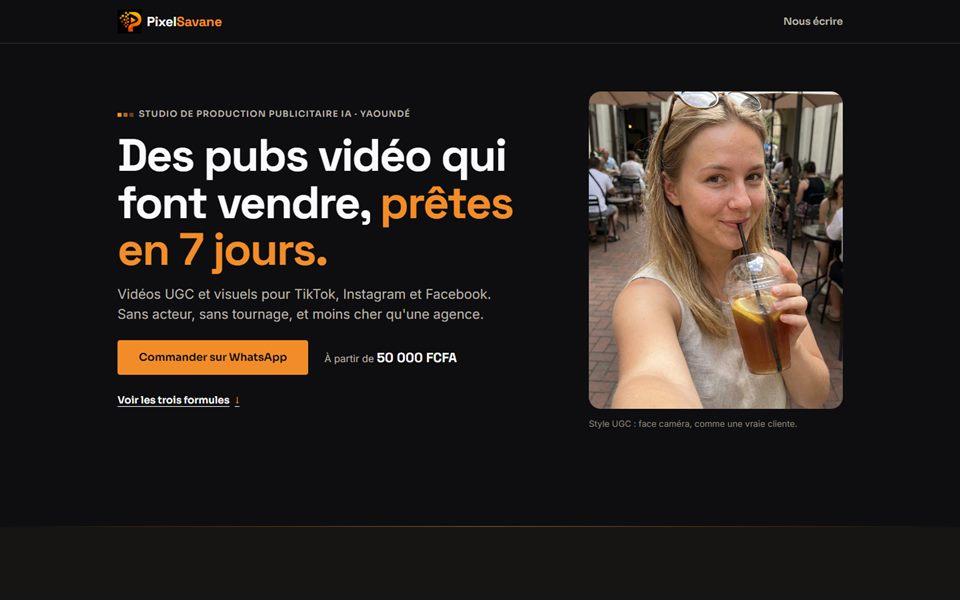
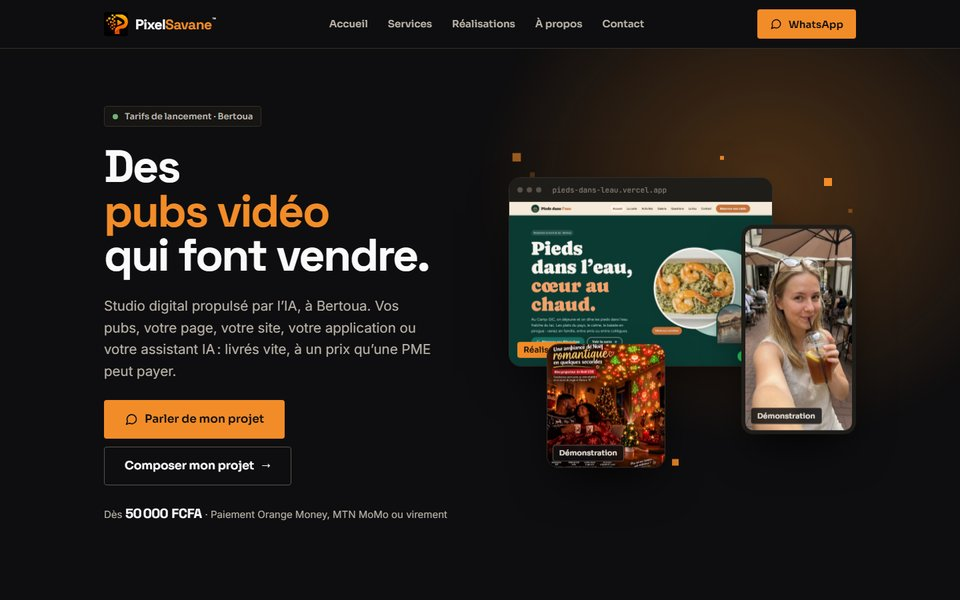
Add files via upload

diff --git a/assets/css/pixelsavane.css b/assets/css/pixelsavane.css
@@ -383,6 +383,56 @@ body{margin:0;background:#0E0E10}
 .ps-apercu{padding:14px 16px;border-radius:12px;background:var(--ink);border:1px dashed var(--l2);font-size:13px;line-height:1.6;color:#D6D0C7;white-space:pre-line;overflow-wrap:anywhere}
 .ps-apercu>span:first-child{display:block;font-family:var(--fs);font-weight:600;font-size:11.5px;letter-spacing:.14em;text-transform:uppercase;color:var(--t3);margin-bottom:6px}
 
+/* Page de vente (pixelsavane-page) : mêmes jetons, quelques composants en plus */
+.ps-rot{display:inline-block;transition:opacity .3s var(--ease),transform .3s var(--ease)}
+.ps-rot.is-out{opacity:0;transform:translateY(.25em)}
+.ps-prixdep{margin:0;font-size:15px;color:var(--t2)}
+.ps-prixdep strong{font-family:var(--ft);font-weight:700;font-size:20px;color:var(--w);font-variant-numeric:tabular-nums}
+.ps-douleurs{list-style:none;margin:0;padding:0;gap:16px}
+.ps-douleurs>li{padding:26px;gap:12px;background:var(--ink)}
+.ps-douleurs .ps-h3{font-size:clamp(18px,1.45cqi,21px)}
+.ps-svc__prix{display:flex;flex-wrap:wrap;align-items:baseline;gap:6px;padding-top:12px;border-top:1px solid var(--l)}
+.ps-svc__prix .ps-num{font-size:19px;color:var(--w)}
+.ps-svc__prix b{font-family:var(--fs);font-weight:600;font-size:11.5px;letter-spacing:.04em;color:var(--o)}
+.ps-onglets{display:flex;gap:8px;overflow-x:auto;scrollbar-width:none;padding-bottom:2px}
+.ps-onglets::-webkit-scrollbar{display:none}
+.ps-onglets .ps-btn{flex:none}
+.ps-formules{display:grid;gap:16px;grid-template-columns:repeat(auto-fit,minmax(min(260px,100%),1fr))}
+.ps-formule{padding:26px 24px 24px;gap:16px}
+.ps-formule .ps-eye{color:var(--t2)}
+.ps-formule .ps-eye::before{background:var(--o)}
+.ps-formule__prix{margin:0;display:flex;flex-wrap:wrap;align-items:baseline;gap:6px;font-family:var(--ft);font-weight:700;font-size:clamp(34px,3cqi,42px);line-height:1;letter-spacing:-.03em;font-variant-numeric:tabular-nums}
+.ps-formule__prix small{font-family:var(--fs);font-weight:600;font-size:13px;letter-spacing:0;color:var(--t3)}
+.ps-formule__prix b{font-family:var(--fs);font-weight:600;font-size:13px;letter-spacing:.04em;color:var(--o)}
+.ps-formule__mois{margin:-8px 0 0;font-family:var(--fs);font-weight:600;font-size:14px;color:var(--o)}
+.ps-formule .ps-checks{flex:1 1 auto}
+.ps-formule .ps-checks li{font-size:15.5px}
+.ps-formule .ps-btn{align-self:stretch}
+.ps-panneau{animation:psPop .45s var(--ease) both}
+.ps-compo{display:flex;flex-wrap:wrap;align-items:flex-start;gap:clamp(20px,3cqi,40px)}
+.ps-compo__form{flex:1 1 520px;min-width:0;display:flex;flex-direction:column;gap:22px}
+.ps-compo fieldset{margin:0;padding:22px;border-radius:18px;border:1px solid var(--l);background:var(--s1);display:flex;flex-direction:column;gap:12px}
+.ps-compo legend{padding:0 6px;font-family:var(--fs);font-weight:600;font-size:16px}
+.ps-check small{font-family:var(--ft);font-weight:700;font-size:13px;color:var(--t3);font-variant-numeric:tabular-nums}
+.ps-check:has(input:checked) small{color:var(--o)}
+.ps-total{flex:1 1 300px;min-width:0;position:sticky;top:96px;padding:clamp(22px,3cqi,32px);border-radius:18px;border:1px solid var(--o);background:var(--s1);display:flex;flex-direction:column;gap:12px;box-shadow:0 0 60px -20px rgba(242,140,40,.35)}
+.ps-total__prix{margin:0;font-family:var(--ft);font-weight:700;font-size:clamp(40px,4cqi,56px);line-height:1;letter-spacing:-.03em;font-variant-numeric:tabular-nums}
+.ps-total__prix small{font-family:var(--fs);font-size:15px;font-weight:600;color:var(--t2);letter-spacing:0}
+.ps-total__prix b{font-family:var(--fs);font-size:15px;font-weight:600;color:var(--o);letter-spacing:.04em}
+.ps-total .ps-btn[aria-disabled=true]{opacity:.45;pointer-events:none}
+.ps-croix li svg{flex:none;margin-top:1px}
+.ps-pourqui{gap:16px}
+.ps-pourqui>div{padding:28px;gap:18px}
+.ps-faq{border-top:1px solid var(--l)}
+.ps-faq details{border-bottom:1px solid var(--l)}
+.ps-faq summary{display:flex;align-items:center;justify-content:space-between;gap:16px;min-height:64px;padding:12px 4px;cursor:pointer;list-style:none;font-family:var(--fs);font-weight:600;font-size:17px;line-height:1.35}
+.ps-faq summary::-webkit-details-marker{display:none}
+.ps-faq summary::after{content:"+";flex:none;width:32px;height:32px;border-radius:4px;border:1px solid var(--l2);display:flex;align-items:center;justify-content:center;font-family:var(--ft);font-size:20px;color:var(--o);transition:transform .3s var(--ease),background-color .3s}
+.ps-faq details[open] summary::after{transform:rotate(45deg);background:var(--s2)}
+.ps-faq summary:focus-visible{outline:2px solid var(--w);outline-offset:3px}
+.ps-faq .ps-p{padding:0 4px 22px;max-width:44rem}
+@container ps (max-width: 760px){.ps-total{position:static}}
+
 /* Repli des apparitions au défilement (Safari, Firefox) : main.js ajoute .no-vt puis .is-in */
 .no-vt .ps-rv{opacity:0;transform:translateY(26px)}
 .no-vt .ps-rv.is-in{animation:psRise .9s var(--ease) both}

diff --git a/assets/js/main.js b/assets/js/main.js
@@ -280,6 +280,92 @@
     composer();
   }
 
+  /* Page de vente : le mot qui tourne dans le titre */
+  var rot = document.querySelector("[data-mots]");
+  if (rot && !reduit) {
+    var mots = rot.getAttribute("data-mots").split("|"), mi = 0;
+    setInterval(function () {
+      rot.classList.add("is-out");
+      setTimeout(function () {
+        mi = (mi + 1) % mots.length;
+        rot.textContent = mots[mi];
+        rot.classList.remove("is-out");
+      }, 300);
+    }, 2400);
+  }
+
+  /* Page de vente : onglets des tarifs (sans JS, toutes les formules restent visibles) */
+  var tabs = document.querySelectorAll("[data-tab]");
+  if (tabs.length) {
+    var ouvrir = function (cle) {
+      tabs.forEach(function (t) {
+        var on = t.getAttribute("data-tab") === cle;
+        t.setAttribute("aria-selected", on ? "true" : "false");
+        t.tabIndex = on ? 0 : -1;
+        document.getElementById(t.getAttribute("aria-controls")).hidden = !on;
+      });
+    };
+    tabs.forEach(function (t, n) {
+      t.addEventListener("click", function () { ouvrir(t.getAttribute("data-tab")); });
+      t.addEventListener("keydown", function (e) {
+        var sens = e.key === "ArrowRight" ? 1 : e.key === "ArrowLeft" ? -1 : 0;
+        if (!sens) return;
+        var autre = tabs[(n + sens + tabs.length) % tabs.length];
+        autre.focus();
+        ouvrir(autre.getAttribute("data-tab"));
+        e.preventDefault();
+      });
+    });
+    document.querySelectorAll("[data-onglet]").forEach(function (a) {
+      a.addEventListener("click", function () { ouvrir(a.getAttribute("data-onglet")); });
+    });
+    ouvrir(tabs[0].getAttribute("data-tab"));
+  }
+
+  /* Page de vente : « Composez votre projet », le prix et le message se calculent seuls */
+  var compo = document.querySelector("[data-composeur]");
+  if (compo) {
+    var milliers = function (n) { return String(n).replace(/\B(?=(\d{3})+(?!\d))/g, " "); };
+    var tTotal = compo.querySelector("[data-total]");
+    var tDes = compo.querySelector("[data-total-des]");
+    var tMois = compo.querySelector("[data-total-mois]");
+    var tEnvoi = compo.querySelector("[data-total-envoyer]");
+    var affiche = 0;
+    var animer = function (vers) {
+      if (reduit) { tTotal.textContent = milliers(vers); affiche = vers; return; }
+      var depart = affiche, t0 = null;
+      var pas = function (t) {
+        if (!t0) t0 = t;
+        var p = Math.min((t - t0) / 450, 1);
+        tTotal.textContent = milliers(Math.round(depart + (vers - depart) * (1 - Math.pow(1 - p, 3))));
+        if (p < 1) requestAnimationFrame(pas); else affiche = vers;
+      };
+      requestAnimationFrame(pas);
+    };
+    var calculer = function () {
+      var somme = 0, mois = 0, des = false, choix = [];
+      compo.querySelectorAll("input:checked").forEach(function (i) {
+        if (!i.value) return;
+        somme += parseInt(i.getAttribute("data-prix"), 10);
+        if (i.hasAttribute("data-mois")) mois += parseInt(i.getAttribute("data-mois"), 10);
+        if (i.hasAttribute("data-des")) des = true;
+        choix.push(i.value);
+      });
+      animer(somme);
+      tDes.textContent = des ? "dès " : "";
+      tMois.textContent = mois ? "+ " + milliers(mois) + " FCFA / mois" : "";
+      var msg = choix.length
+        ? "Bonjour PixelSavane, voici mon projet : " + choix.join(", ") + ". Estimation : " +
+          (des ? "dès " : "") + milliers(somme) + " FCFA" + (mois ? " + " + milliers(mois) + " FCFA/mois" : "") +
+          ". Mon activité :"
+        : "Bonjour PixelSavane, j’ai un projet :";
+      tEnvoi.setAttribute("aria-disabled", choix.length ? "false" : "true");
+      tEnvoi.href = "https://wa.me/" + WA + "?text=" + encodeURIComponent(msg);
+    };
+    compo.addEventListener("change", calculer);
+    calculer();
+  }
+
   /* Visionneuse des démonstrations */
   var zoom = document.querySelector("[data-zoom]");
   if (zoom) {
